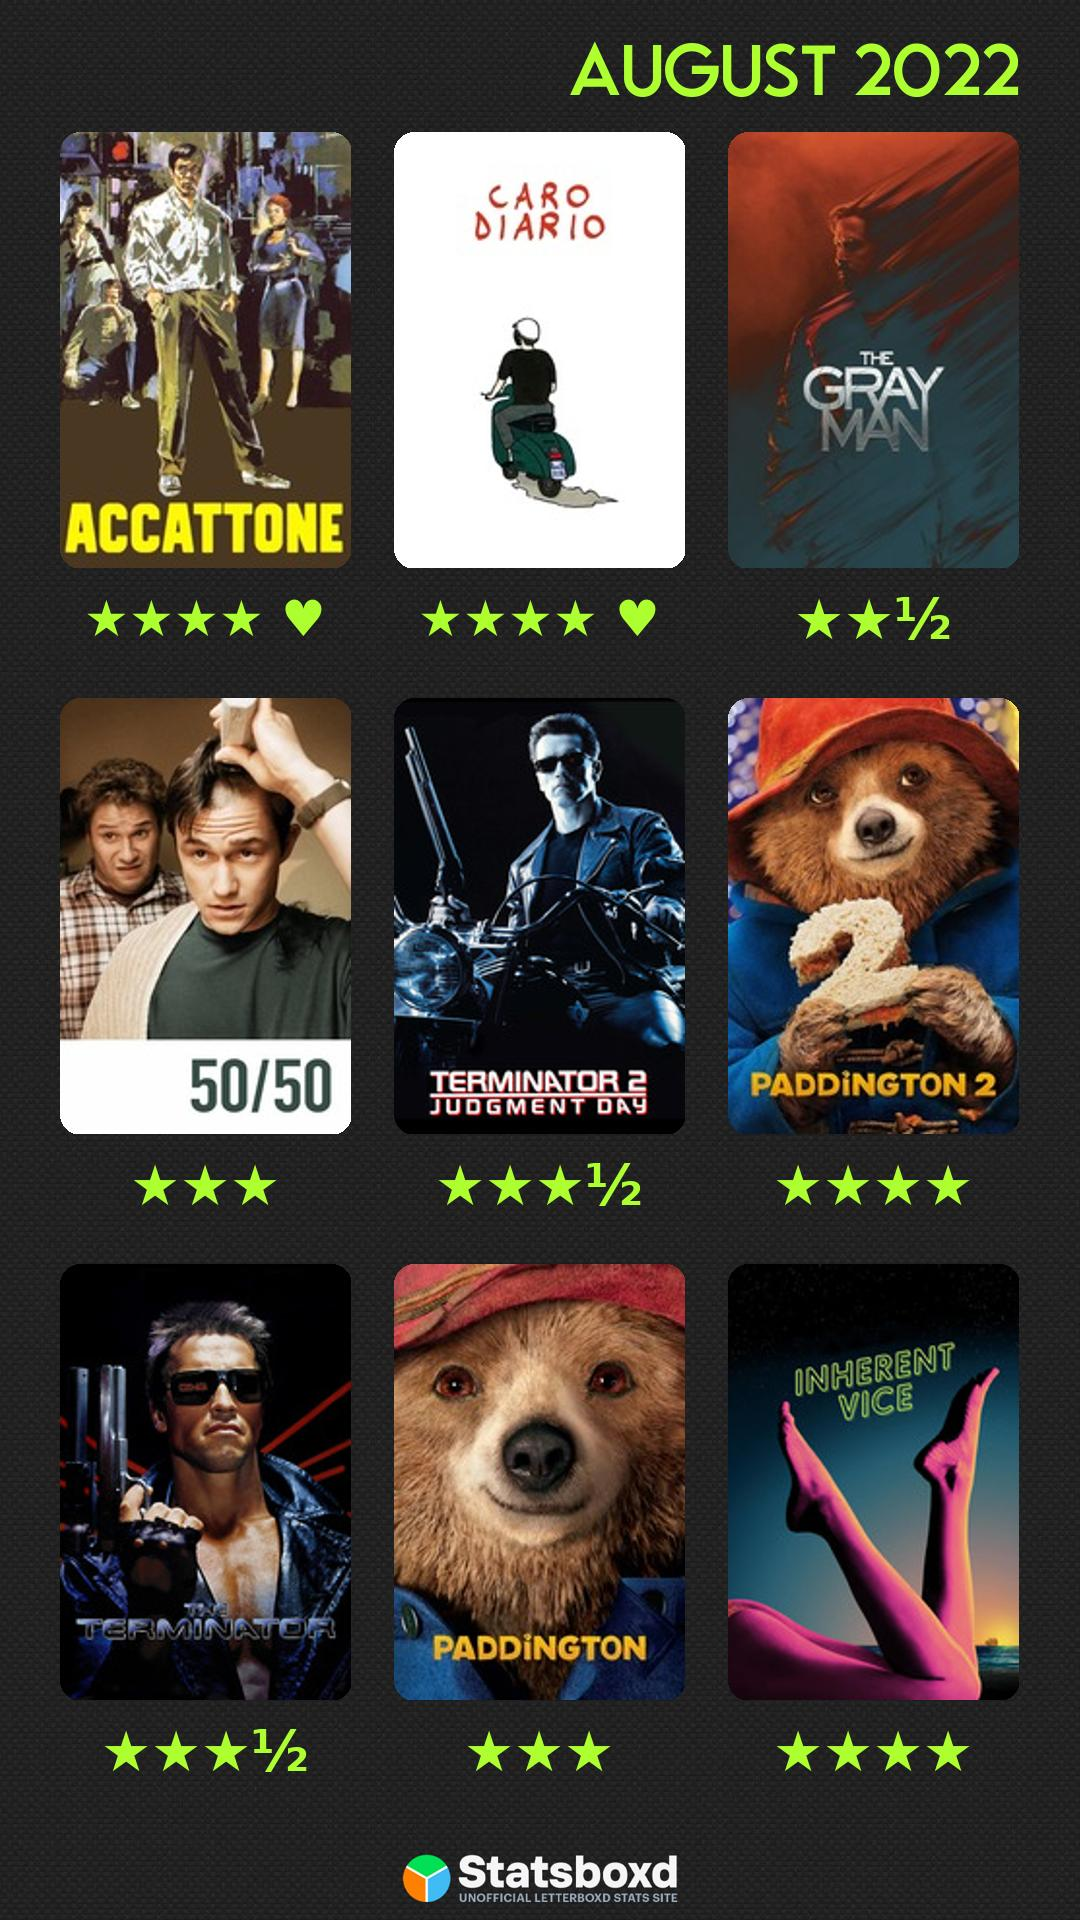
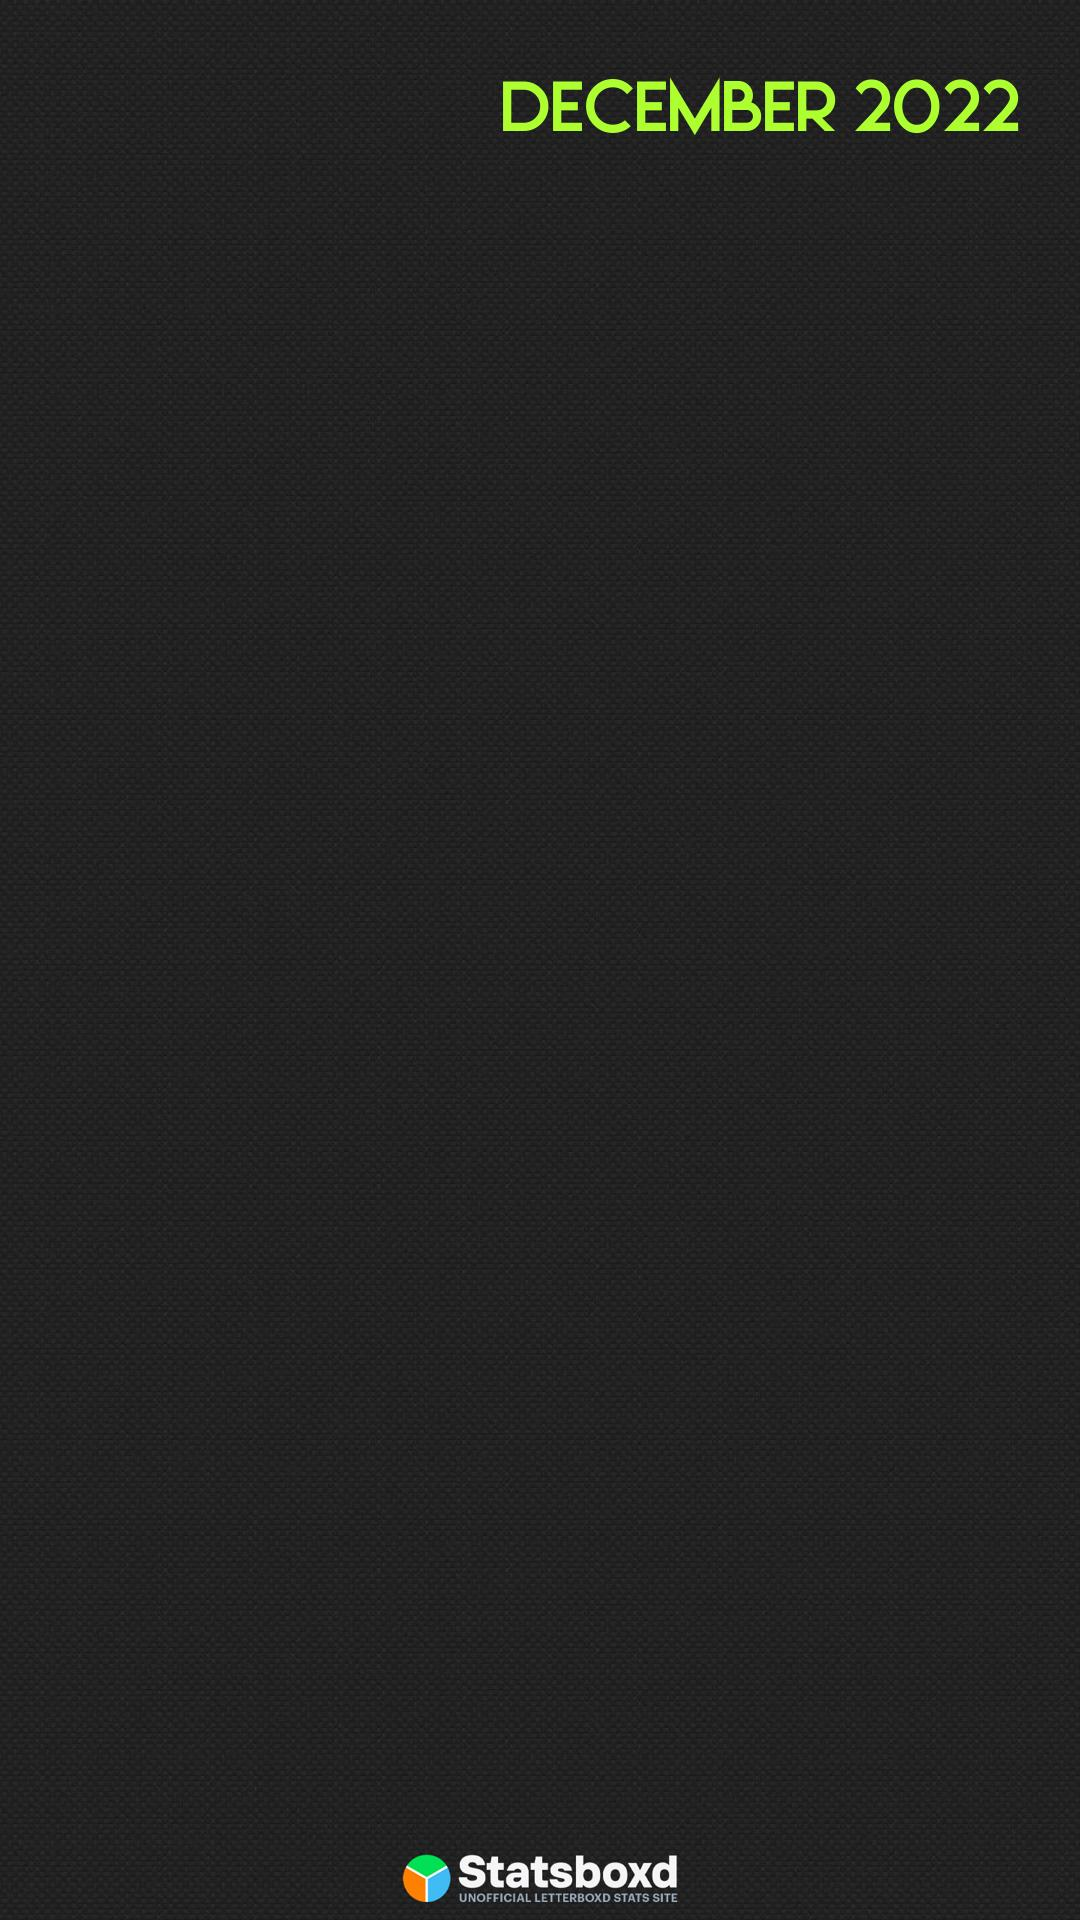
some stuff

diff --git a/templates/index.html b/templates/index.html
@@ -63,7 +63,7 @@
                     </div>
                 </div>
                  {% if year == '' %}
-                  <h3 class="arrowcheck">The problem in the collage has been fixed.</h3>
+                  <h3 class="arrowcheck">The problem in creating the collage is being fixed. The 2023 stats will appear upon reaching 50 logs.</h3>
                  {% endif %}
                 <div class="mainSubtitle">
                     <a href="{{ lbdurl }}/{{ user._id }}"><img class="avatar" src="{{ user.image }}" alt="{{ user._id }}"/></a>

diff --git a/utils/collage.py b/utils/collage.py
@@ -35,7 +35,7 @@ def collage(username):
         {'$project': {'_id': 0, 'diary': 1}},
         {'$unwind': '$diary'},
         {'$match': {"diary.date": {'$gte': datetime(year2, month2, 1, 0, 0)}}},
-        {'$match': {"diary.date": {'$lt': datetime(date.today().year, month, 1, 0, 0)}}},
+        {'$match': {"diary.date": {'$lt': datetime(year, month, 1, 0, 0)}}},
         {'$lookup': {
             'from': 'Film', 'localField': 'diary.id',
             'foreignField': '_id', 'as': 'info'}},
@@ -45,11 +45,15 @@ def collage(username):
     films = []
     for x in a:
         films.append(x)
+        print(films)
     number = len(films)
 
     #img = Image.open(requests.get('https://wallpaperaccess.com/full/1554870.jpg', stream=True).raw).convert("RGBA")
     #img = img.resize((1080, 1920))
-    img = Image.open("./utils/sfondo.jpg").convert("RGBA").resize((1080, 1920))
+    if __name__ == '__main__':
+        img = Image.open("sfondo.jpg").convert("RGBA").resize((1080, 1920))
+    else:
+        img = Image.open("./utils/sfondo.jpg").convert("RGBA").resize((1080, 1920))
     combined = img
     bordistandard = 25
 
@@ -115,7 +119,10 @@ def collage(username):
 
         if film['like'] or film['rewatch']:
             out = Image.new("RGBA", (length, int(bordivert * 0.5)), (255, 0, 0, 0))
-            fnt = ImageFont.truetype("./utils/DejaVuSans-Bold.ttf", int(150 / j))
+            if __name__ == '__main__':
+                fnt = ImageFont.truetype("DejaVuSans-Bold.ttf", int(150 / j))
+            else:
+                fnt = ImageFont.truetype("./utils/DejaVuSans-Bold.ttf", int(150 / j))
             try:
                 msg = u"\u2605" * int(int(film['rating']) / 2) + u"\u00BD" * int(int(film['rating']) % 2) + \
                       " " + u"\u2665" * film['like'] + u"\u27F3" * film['rewatch']
@@ -123,7 +130,10 @@ def collage(username):
                 msg = ""
         else:
             out = Image.new("RGBA", (length, int(bordivert*0.5)), (255, 0, 0, 0))
-            fnt = ImageFont.truetype("./utils/DejaVuSans-Bold.ttf", int(170/j))
+            if __name__ == '__main__':
+                fnt = ImageFont.truetype("DejaVuSans-Bold.ttf", int(170/j))
+            else:
+                fnt = ImageFont.truetype("./utils/DejaVuSans-Bold.ttf", int(170 / j))
             try:
                 msg = u"\u2605" * int(int(film['rating'])/2) + u"\u00BD" * int(int(film['rating']) % 2)
             except:
@@ -137,19 +147,25 @@ def collage(username):
         x = x + 1
 
     out = Image.new("RGBA", (1080, 1920), (0, 0, 0, 0))
-
-    fnt = ImageFont.truetype("./utils/Moonrising.ttf", int(bordoalto*0.5))
+    if __name__ == '__main__':
+        fnt = ImageFont.truetype("Moonrising.ttf", int(bordoalto * 0.5))
+    else:
+        fnt = ImageFont.truetype("./utils/Moonrising.ttf", int(bordoalto*0.5))
     dictmonth = {1: 'January', 2: 'February', 3: 'March', 4: 'April', 5: 'May', 6: 'June',
                  7: 'July', 8: 'August', 9: 'September', 10: 'October', 11: 'November', 12: 'December'}
-    msg = dictmonth[int(month-1)] + " " + str(year)
+    msg = dictmonth[int(month2)] + " " + str(year2)
     w, h = fnt.getsize(msg)
     d = ImageDraw.Draw(out)
     d.text((int(1080-bordiestremi-w), int(bordoalto*0.2+bordisupplemento/2)), msg, font=fnt, fill=(173, 255, 47, 255))
     combined = Image.alpha_composite(combined, out)
     #combined.show()
     rgb_im = combined.convert('RGB')
-    rgb_im.save('./utils/tmp.jpg')
-    files = {'image': open('./utils/tmp.jpg', 'rb')}
+    if __name__ == '__main__':
+        rgb_im.save('tmp.jpg')
+        files = {'image': open('tmp.jpg', 'rb')}
+    else:
+        rgb_im.save('./utils/tmp.jpg')
+        files = {'image': open('./utils/tmp.jpg', 'rb')}
     urlreq = 'https://api.imgbb.com/1/upload?expiration=864000&key=d75924aaec91be8dcb79c3c5ec3547cc'
     r = requests.post(urlreq, files=files)
     jsonx = json.loads(r.text)
